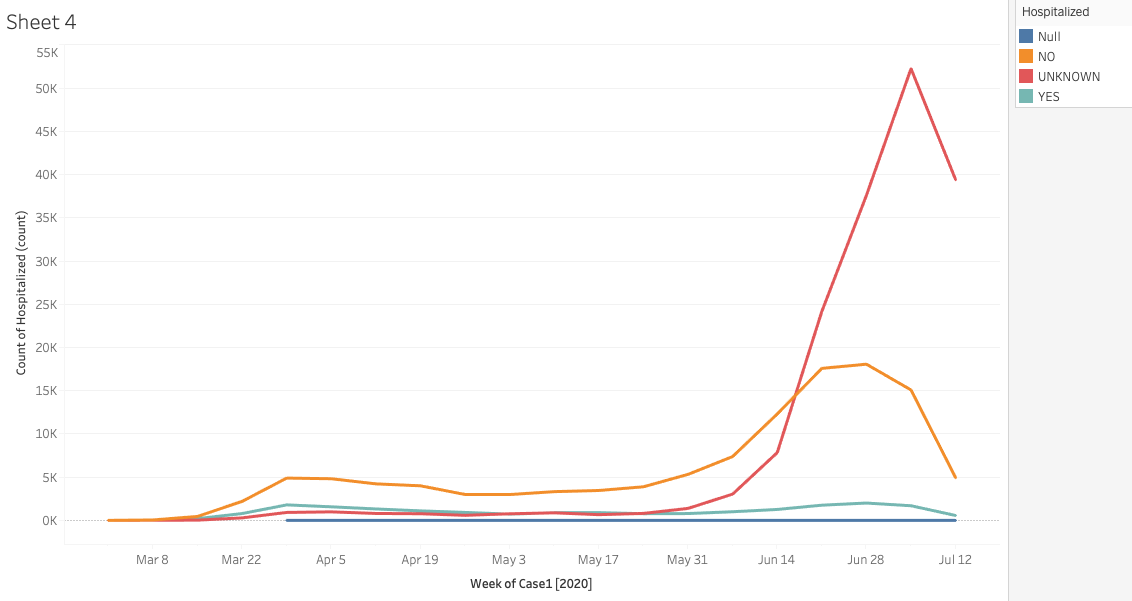
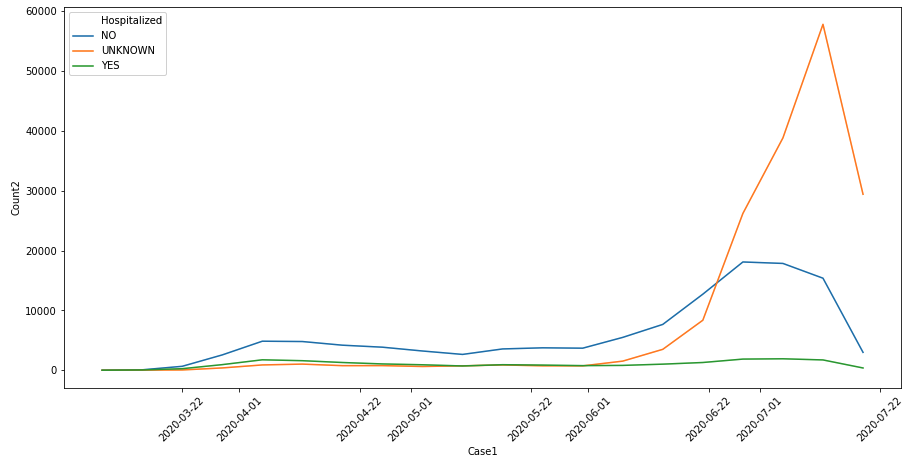
hospitalizations by case timeserie

diff --git a/README.md b/README.md
@@ -142,6 +142,8 @@ ___
 </details>
 <br/>
 
+____
+
 #### 2. Total number of cases per county
 
 ![](Images/steps_presentation/06_number_cases_county_all.png)
@@ -170,6 +172,8 @@ ___
 </details>
 <br/>
 
+___
+
 #### 3. Top 10 counties with total cases
 
 ![](Images/steps_presentation/07_top_counties_all.png)
@@ -195,6 +199,8 @@ ___
 </details>
 <br/>
 
+____
+
 #### 4. Top 10 counties trending view of total cases as a percentage of total (top 10)
 
 ![](Images/steps_presentation/07_top_counties_as_perc.png)
@@ -207,6 +213,8 @@ code here
     
 </details>
 <br/>
+
+____
 
 #### 5. Total number of cases by gender 
 
@@ -234,6 +242,8 @@ code here
 </details>
 <br/>
 
+____
+
 #### 6. Total of hospitalizations only
 
 ![](Images/steps_presentation/09_total_hospitalizations_only.png)
@@ -249,6 +259,8 @@ code here
     
 </details>
 <br/>
+
+____
 
 #### 7. Percentage of hospitalizations by gender
 
@@ -287,6 +299,8 @@ code here
 </details>
 <br/>
 
+____
+
 #### 8. Percentage of hospitalizations by age group
 
 ![](Images/steps_presentation/##.png)
@@ -300,6 +314,8 @@ code here
 </details>
 <br/>
 
+____
+
 #### 9. Hospitalizations by case
 
 ![](Images/steps_presentation/11_hosp_by_case.png)
@@ -307,11 +323,22 @@ code here
 <details><summary>Expand to view code</summary>
 
 ```
-    code here
+    import seaborn as sns
+    new_csv_data_df['Count']=np.where(new_csv_data_df['Hospitalized']=='YES', 1,0)
+    new_csv_data_df.head()
+    new_csv_data_df['Count2']=1
+    new_csv_data_df['Case1']=pd.to_datetime(new_csv_data_df['Case1'])
+    case_plot_df=pd.DataFrame(new_csv_data_df.groupby(['Hospitalized', pd.Grouper(key='Case1', freq='W')])['Count2'].count())
+    case_plot_df.reset_index(inplace=True)
+    plt.subplots(figsize=[15,7])
+    sns.lineplot(x='Case1', y='Count2', data=case_plot_df, hue='Hospitalized')
+    plt.xticks(rotation=45)
 ```
     
 </details>
 <br/>
+
+____
 
 #### 10. Compare travel-related hospitalization to non-travelrelated cases
 
@@ -326,6 +353,8 @@ code here
 </details>
 <br/>
 
+____
+
 #### 11. Percentage of hospitalization before shut down
 
 ![](Images/steps_presentation/##.png)
@@ -339,6 +368,8 @@ code here
 </details>
 <br/>
 
+____
+
 #### 12. Percentage of hospitalization during shut down
 
 ![](Images/steps_presentation/##.png)
@@ -351,6 +382,8 @@ code here
     
 </details>
 <br/>
+
+____
 
 #### 13. Percentage of hospitalization after reopening
 
@@ -377,6 +410,12 @@ code here
     
 </details>
 <br/>
+
+____
+
+### Part 3: Conclussions 
+
+
 
 
 
